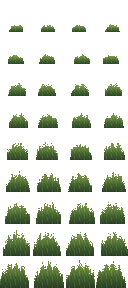
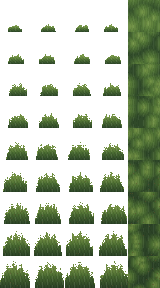
Пятый столбец листа — образец для тела кочки, пока рисуется кодом
У кочки две части, и картинки им нужны разные. Ворс — плоские дощечки, им
годится вырезанная фигурка на прозрачном фоне, для того клетки листа и
рисовались. Тело — замкнутая оболочка, его надо обивать, как мебель обивают
тканью, а вырезанной фигуркой не обобьёшь: у неё нет ни однородности, ни
повторяемости, и она наполовину прозрачна. Отсюда и брался просвечивающий
центр, и полосы на куполе.

Теперь у листа пятый столбец: не куртинка, а кусок мховой поверхности вплотную
сверху, заполненный от края до края, свой на каждый возраст. Лист стал
160 на 288.

ЛИСТ ПРЕЖНЕЙ ШИРИНЫ ТОЖЕ ГОДИТСЯ. Столбец появился позже, чем была нарисована
работа, и заставлять её переделывать неправильно: файл на 128 в ширину
принимается как есть, а столбец тела дорисовывается кодом на лету. Нарисуется
замена — лист станет шире, и дорисовка сама отключится.

Заглушка рисует сросшиеся округлые холмики: светлые макушки, тёмные стыки, та
же вертикальная рябь, что делает бархат. Расстояние до холмика считается по
кругу с заворотом через край, поэтому образец стыкуется сам с собой.

Разметка тела выросла с 17 точек до 1024 — целая клетка вместо огрызка у
корней, из которого тело выходило почти одноцветным. Просвечивающих точек
по-прежнему ноль, треугольников на кочку 57.4 — геометрия не изменилась.

Руководство по рисованию дополнено разделом про пятый столбец, заготовки
moss_base/grid/zoom пересобраны на новую ширину.

diff --git a/README.md b/README.md
@@ -96,13 +96,20 @@
 кочку — ровно столько же, сколько стоил прежний пучок плоских картинок, у
 которого объём был мнимый и рассыпался, стоило посмотреть вдоль дощечек.
 
-Картинку телу даём **не из клетки листа целиком, а из её сплошной части**, и эта
-часть ищется по самой картинке при запуске (`_scan_solid`). Иначе у кочек младше
-седьмой ступени просвечивал центр: молодая куртинка нарисована только у нижнего
-края клетки, выше прозрачный фон, а движок режет по порогу — макушка тела
-попадала в пустоту. Угадать наперёд нельзя, лист рисует пользователь; поэтому не
-угадываем, а смотрим: идём от корней вверх, пока в строке есть сплошной кусок, и
-пересекаем эти куски. Пересечение сплошных отрезков сплошное по построению.
+У листа мха **пять столбцов**: четыре разновидности ворсинки и пятый — образец
+для тела. Устроены они по-разному, и это не мелочь. Клетки разновидностей —
+вырезанные фигурки, куртинка в профиль на прозрачном фоне; ими обтягивают плоскую
+дощечку. Тело же — замкнутая оболочка, его надо обивать, как мебель обивают
+тканью, а вырезанной фигуркой не обобьёшь. Пока пятого столбца не было, тело
+брало лоскут из клетки с фигуркой, и **у кочек младше седьмой ступени просвечивал
+центр**: молодая куртинка нарисована только у нижнего края клетки, выше
+прозрачный фон, а движок режет по порогу — макушка тела попадала в пустоту.
+
+Лист **прежней ширины тоже годится**: если столбца тела в файле нет, он
+дорисовывается кодом на лету, и работу пользователя переделывать не приходится.
+Сплошная часть каждой клетки при этом всё равно ищется по самой картинке при
+запуске (`_scan_solid`): идём от корней вверх, пока в строке есть сплошной кусок,
+и пересекаем эти куски — пересечение сплошных отрезков сплошное по построению.
 
 **Куртина ширится с возрастом** по своему правилу, куда круче ворсинки: радиус
 идёт от 0.65 до 1.45 «М», то есть больше чем вдвое. Садиться ближе 0.27 м друг к
